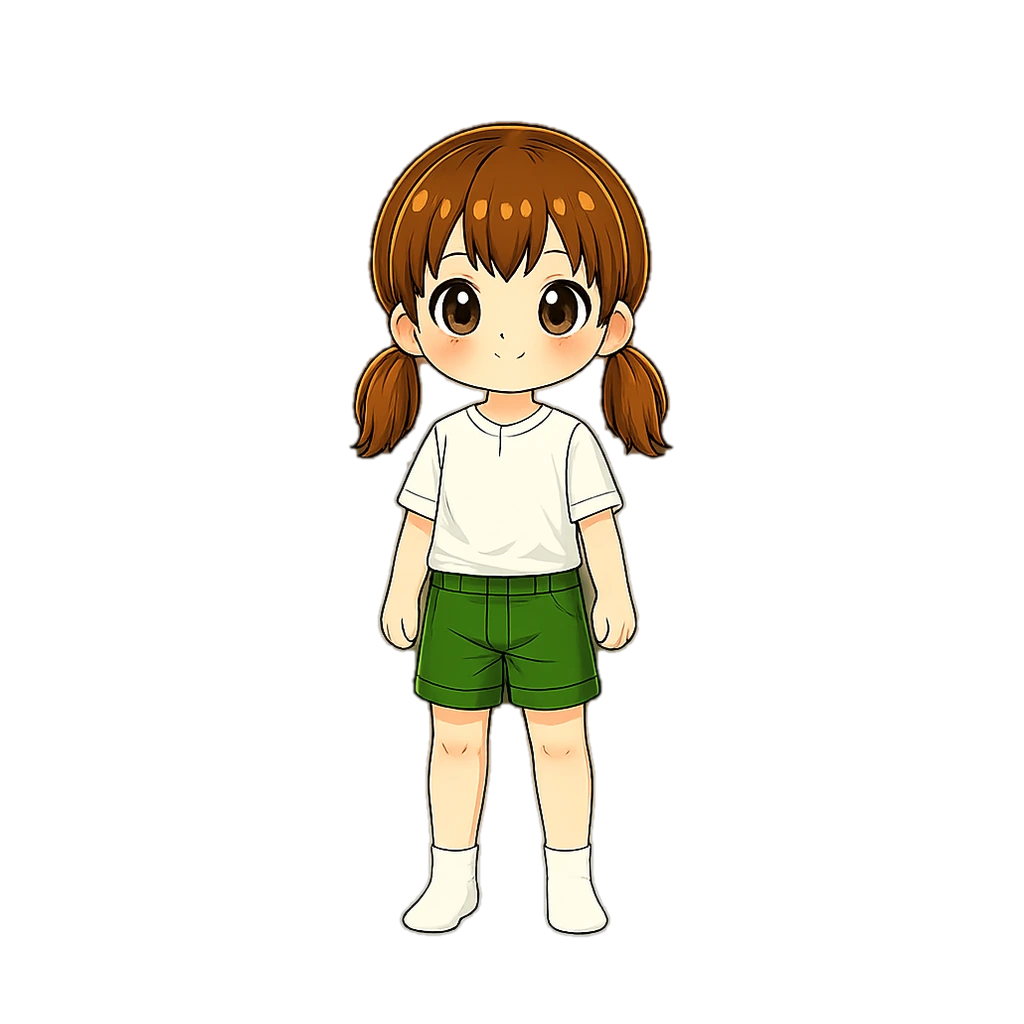
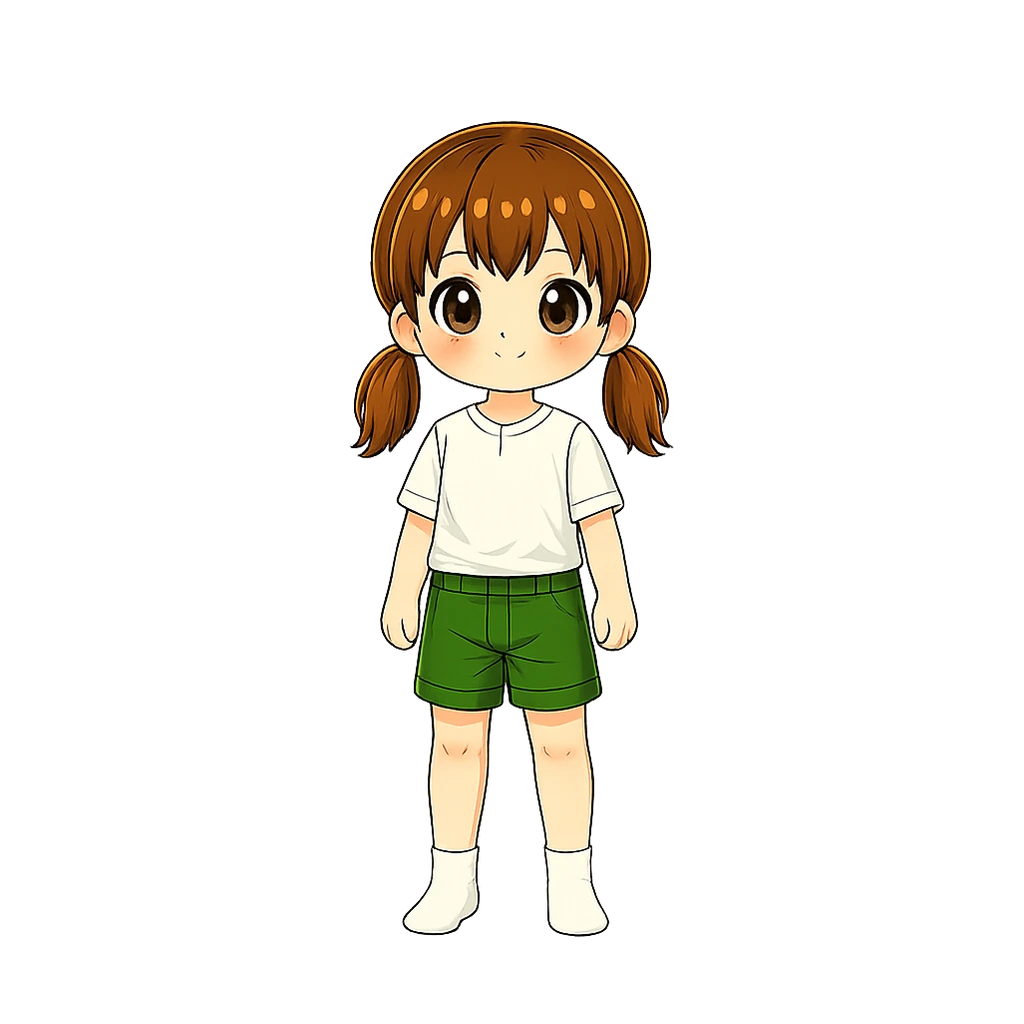
feat: 아바타 기본 캐릭터(남아·여아) 새 원화로 교체 (#158)
* fix: 모험지도 발자국 길 이탈 수정 — v5 원화에서 모래길 중심선 자동 추출로 경로 재보정

- 짧은/긴 지도 PATH를 원화 색 분류 스캔(모래색 픽셀 행별 추적)으로 재추출
- 짧은 지도 17점 → 46점, 긴 지도 21점 → 68점 (S커브·다리 통과 정밀 반영)
- 다리 구간은 목재 데크라 색 추출이 안 되어 수동 보간

Claude-Session: https://claude.ai/code/session_018maNuYqDfFyRSe9uKpZhPR

* feat: 우측 상단 원형 뱃지 버튼 3종 세로 배치 (엄마용-아이전환-아바타)

- 사용자 신규 원화 4종 탑재: 엄마용(엄마 얼굴)·아이전환(남매)·내아바타(초록 실루엣)·성장캐릭터(새싹)
- 엄마용·아이전환 뱃지 그림 v2로 교체
- 내 아바타/성장캐릭터 토글: 좌측 하단 나무 팻말 → 우측 상단 3번째 원형 뱃지(52px)로 이동
- 배경 꾸미기 장착 시 크림 캡슐 분기 제거 (뱃지가 헤더 영역이라 불필요)
- 원본 4장 art-src/ 보관 + README 갱신, vite build 검증

Claude-Session: https://claude.ai/code/session_018maNuYqDfFyRSe9uKpZhPR

* feat: 모험지도 학원 건물 v6 정글 세트 교체 (나무집·돌아치·텐트·티키오두막)

- 사용자 신규 원화 4종 탑재: trim + 높이 220 + 채도 1.08 + webp q86
- 텐트·티키는 원화의 흰 원을 투명 펀칭(중심 flood-fill) — 이모지 뒤배치 방식 유지
- 구멍 중심·지름 실측(투명 블롭 스캔)으로 cx/cy/d 갱신, k는 구멍 표시 크기 통일 기준 재계산
- 구 건물 webp 4종 삭제(미참조 확인), 원본은 art-src/ 보관 + README 갱신

Claude-Session: https://claude.ai/code/session_018maNuYqDfFyRSe9uKpZhPR

* polish: 모험 홈 무게중심 미세조정 6종 (사용자 픽셀 단위 가이드)

- 캐릭터·펫 컨테이너 20px 위로 (translateY 6→-14) — 하단 시트 눌림감 해소
- 헤드라인 문구 아래 20px·우측 7px (relative, 레이아웃 불변) + 나침반 이모지 간격 축소
- 우측 뱃지 3번째(아바타 토글) marginTop 2px — 간격 착시 보정
- '곧 부화!' 말풍선 알쪽으로 11px 하강 + 4px 우측 — 알과 한 덩어리로
- 시트 핸들바 아래 여백 14→7px — 날짜바 소폭 상승
- 모험 탭 초록 채움 8% 소프트 (#A5BB60→#ACC06D)

Claude-Session: https://claude.ai/code/session_018maNuYqDfFyRSe9uKpZhPR

* polish: 모험지도 라벨·발자국·진행도 개선 (사용자 가이드 8종)

- 이름표 2줄 통일: 1줄 학원명 / 2줄 🕘 시간(진하게) — 전 라벨 동일 규칙
[…]

diff --git a/art-src/README.md b/art-src/README.md
@@ -8,6 +8,11 @@ ChatGPT로 생성한 **가공 전 원본 이미지**를 보관한다. 배포(dis
 **보관 형식**: 원본은 **webp(q92)** 로 저장한다. PNG로 두면 저장소가 빠르게 커진다
 (58장 63MB → 8MB). 화질 손실은 재가공에 지장 없는 수준.
 
+**아바타 베이스 교체 규칙**: 모자·신발·상의 등 장비 그림은 1024×1024 안에서
+'베이스가 있던 자리'에 맞춰 그려져 있다. 그래서 베이스를 새로 넣을 땐 반드시
+**현행 베이스의 bbox(키·중심x·발끝)에 맞춰 배율·위치를 잡아야** 장비가 어긋나지 않는다.
+현행 기준값 — 남아 x365~657 / y122~935, 여아 x349~673 / y121~936 (중심x 511).
+
 **정리 이력**: 교체·은퇴된 원본 26개(37MB)는 작업 폴더에서 삭제했다.
 필요하면 git 히스토리에서 되살릴 수 있다 — `git log --all --diff-filter=D --name-only -- art-src`
 
@@ -23,8 +28,10 @@ ChatGPT로 생성한 **가공 전 원본 이미지**를 보관한다. 배포(dis
 
 | 파일 | 용도 | 탑재 에셋 |
 |---|---|---|
-| base-boy.webp | 남아 아바타 베이스 원화 (신규 교체본, 배경 제거·정렬 탑재) | avatar/base/default.webp |
-| base-girl.webp | 여아 아바타 베이스 원화 (신규 교체본, 배경 제거·정렬 탑재) | avatar/base/default-girl.webp |
+| base-boy-v3.webp | 남아 아바타 베이스 원화 v3 (현행 — 배경 제거·현행 bbox에 맞춰 정렬 탑재) | avatar/base/default.webp |
+| base-girl-v3.webp | 여아 아바타 베이스 원화 v3 (현행 — 배경 제거·현행 bbox에 맞춰 정렬 탑재) | avatar/base/default-girl.webp |
+| base-boy.webp | 남아 아바타 베이스 원화 v2 (교체됨) | — |
+| base-girl.webp | 여아 아바타 베이스 원화 v2 (교체됨) | — |
 | boots-explorer-sockless.webp | 탐험 부츠 착용 원화 (맨발목, 현행) | avatar/shoes/explorer-boots.webp |
 | boots-cream-sockless.webp | 크림 부츠 착용 원화 (맨발목, 현행) | avatar/shoes/cream-boots.webp |
 | hat-explorer-wearing.webp | 탐험 헬멧 착용 원화 | avatar/hat/explorer-helmet.webp |
